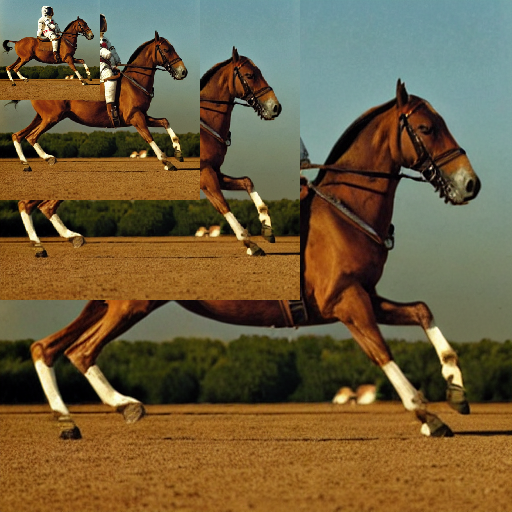
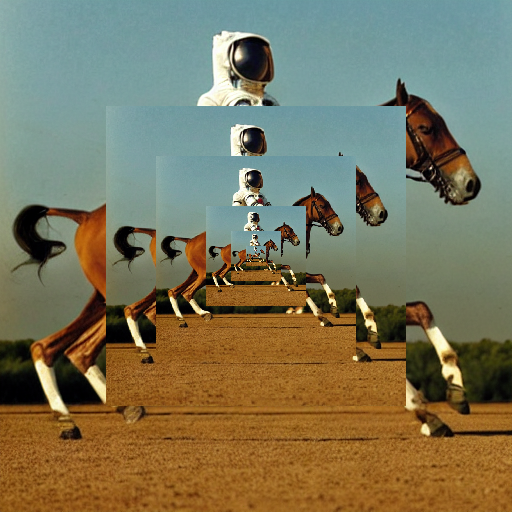
checkout overlayd.png

diff --git a/image_manipulator/src/main.rs b/image_manipulator/src/main.rs
@@ -11,6 +11,9 @@ use image::{ImageBuffer, Rgba, RgbaImage};
 use std::process;
 use std::io::Read;
 use std::io;
+use eval::{Expr, to_value};
+use std::collections::HashMap;
+
 
 // use woff2::decode::{convert_woff2_to_ttf, is_woff2};
 
@@ -30,6 +33,7 @@ async fn main(){
     // translation == position, a fixed point somewhere
     // rotation == rotation
 
+
     let a_s_arg: Vec<String> = env::args().collect();
     let mut s_first_arg = a_s_arg[1].to_owned();
     println!("s_first_arg {:?}", s_first_arg);
@@ -40,9 +44,69 @@ async fn main(){
 
     let a_o_manipulation = o_param["a_o_manipulation"].as_array().unwrap();
     let mut n_i_a_o_manipulation = 0; 
+    let mut a_s_path_file : Vec<String> = Vec::new();
+    let mut a_n_scale_x : Vec<f64> = Vec::new();
+    let mut a_n_scale_y : Vec<f64> = Vec::new();
+
     while(n_i_a_o_manipulation < a_o_manipulation.len()){
         let o_manipulation = &a_o_manipulation[n_i_a_o_manipulation];
-        let mut o_image_input = ImageReader::open(o_manipulation["s_path_image_input"].as_str().unwrap()).unwrap().decode().unwrap();
+        let mut s_path_image_input = o_manipulation["s_path_image_input"].as_str().unwrap();
+        let mut o_image_input = ImageReader::open(s_path_image_input).unwrap().decode().unwrap();
+        let mut n_index_a_s_path_file = a_s_path_file.iter().position(|s| s == s_path_image_input);
+        if(n_index_a_s_path_file == None){
+            // println!("n_index_a_s_path_file {:?}", n_index_a_s_path_file);
+            a_s_path_file.push(String::from(s_path_image_input));
+            a_n_scale_x.push(o_image_input.width() as f64);
+            a_n_scale_y.push(o_image_input.height() as f64);
+            n_index_a_s_path_file = Some((a_s_path_file.len()-1) as usize);
+        }else{
+            n_index_a_s_path_file = Some(n_index_a_s_path_file.unwrap() as usize);
+            a_s_path_file[n_index_a_s_path_file.unwrap()] = String::from(s_path_image_input);
+            a_n_scale_x[n_index_a_s_path_file.unwrap()] = (o_image_input.width() as f64);
+            a_n_scale_y[n_index_a_s_path_file.unwrap()] = (o_image_input.height() as f64);
+        }
+
+        println!("a_s_path_file {:?}", a_s_path_file);
+
+        let mut n_translation_x_evaluated = 0 as f64; 
+        if(o_manipulation["s_translation_x"]!= serde_json::Value::Null){
+            let mut s_expression = String::from(o_manipulation["s_translation_x"].as_str().unwrap());
+            for (n_index, s_path_file) in a_s_path_file.clone().iter().enumerate(){
+                let mut s = vec![String::from(s_path_file.clone()), String::from(".n_scale_x")].join("");
+                s_expression = s_expression.replace(&s[..], &(a_n_scale_x[n_index as usize].to_string())[..]);
+                // println!("replacing {:?} with {:?}", s, &(a_n_scale_x[n_index as usize].to_string()));
+                s = vec![String::from(s_path_file.clone()), String::from(".n_scale_y")].join("");
+                s_expression = s_expression.replace(&s[..], &(a_n_scale_y[n_index as usize].to_string())[..]);
+
+            }
+            
+            let mut o_expr = Expr::new(String::from(s_expression.clone()));
+            // println!("s_expression {:?}", s_expression.clone());
+            n_translation_x_evaluated = o_expr.exec().unwrap().as_f64().unwrap();
+            // println!("n_translation_x_evaluated {:?}", n_translation_x_evaluated);
+            // std::process::exit(1);
+        }
+        let mut n_translation_y_evaluated = 0 as f64;
+        if(o_manipulation["s_translation_y"]!= serde_json::Value::Null){
+            let mut s_expression = String::from(o_manipulation["s_translation_y"].as_str().unwrap());
+            for (n_index, s_path_file) in a_s_path_file.clone().iter().enumerate(){
+                let mut s = vec![String::from(s_path_file.clone()), String::from(".n_scale_x")].join("");
+                s_expression = s_expression.replace(&s[..], &(a_n_scale_y[n_index as usize].to_string())[..]);
+                // println!("replacing {:?} with {:?}", s, &(a_n_scale_y[n_index as usize].to_string()));
+                s = vec![String::from(s_path_file.clone()), String::from(".n_scale_y")].join("");
+                s_expression = s_expression.replace(&s[..], &(a_n_scale_y[n_index as usize].to_string())[..]);
+            }
+            
+            let mut o_expr = Expr::new(String::from(s_expression.clone()));
+            // println!("s_expression {:?}", s_expression.clone());
+            n_translation_y_evaluated = o_expr.exec().unwrap().as_f64().unwrap();
+            // println!("n_translation_y_evaluated {:?}", n_translation_y_evaluated);
+            // std::process::exit(1);
+        }
+
+
+
+
         let mut o_image_output = o_image_input.clone();
         if(o_manipulation["s_operation_name"].as_str().unwrap() == "resize"){
 
@@ -67,8 +131,8 @@ async fn main(){
             image::imageops::overlay(
                 &mut o_image_output,
                 &o_image_foreground,
-                o_manipulation["n_translation_x"].as_i64().unwrap() as i64, 
-                o_manipulation["n_translation_y"].as_i64().unwrap() as i64
+                n_translation_x_evaluated as i64, 
+                n_translation_y_evaluated as i64
             );
         }
 
@@ -77,8 +141,8 @@ async fn main(){
             o_image_output = image::DynamicImage::ImageRgba8(
                 image::imageops::crop(
                     &mut o_image_input,
-                    o_manipulation["n_translation_x"].as_i64().unwrap().try_into().unwrap(),
-                    o_manipulation["n_translation_y"].as_i64().unwrap().try_into().unwrap(), 
+                    n_translation_x_evaluated as u32,
+                    n_translation_y_evaluated as u32, 
                     o_manipulation["n_scale_x"].as_i64().unwrap().try_into().unwrap(),
                     o_manipulation["n_scale_y"].as_i64().unwrap().try_into().unwrap(),
                 ).to_image()
@@ -105,14 +169,9 @@ async fn main(){
             let mut n_cos = (std::f64::consts::TAU * n_rotation_normalized).cos();
             let mut n_sin = (std::f64::consts::TAU * n_rotation_normalized).sin();
 
-            let mut n_translation_x = 0 as f64; 
-            if(o_manipulation["n_translation_x"]!= serde_json::Value::Null){
-                n_translation_x = (o_manipulation["n_translation_x"].as_f64().unwrap())
-            }
-            let mut n_translation_y = 0 as f64; 
-            if(o_manipulation["n_translation_y"]!= serde_json::Value::Null){
-                n_translation_y = (o_manipulation["n_translation_y"].as_f64().unwrap())
-            }
+
+            let mut n_translation_x = n_translation_x_evaluated;
+            let mut n_translation_y = n_translation_y_evaluated;
 
             for n_y in 0..n_o_image_input_scale_x{
                 for n_x in 0..n_o_image_input_scale_y {
@@ -214,14 +273,10 @@ async fn main(){
                 n_o_image_input_scale_x,
                 n_o_image_input_scale_y
             );
-            let mut n_translation_x = 0 as f64; 
-            if(o_manipulation["n_translation_x"]!= serde_json::Value::Null){
-                n_translation_x = (o_manipulation["n_translation_x"].as_f64().unwrap())
-            }
-            let mut n_translation_y = 0 as f64; 
-            if(o_manipulation["n_translation_y"]!= serde_json::Value::Null){
-                n_translation_y = (o_manipulation["n_translation_y"].as_f64().unwrap())
-            }
+
+
+            let mut n_translation_x = n_translation_x_evaluated;
+            let mut n_translation_y = n_translation_y_evaluated;
 
             let mut a_n_f64_x : Vec<f64> = vec![
                 o_manipulation["a_a_n"].as_array().unwrap()[0].as_array().unwrap()[0].as_f64().unwrap(),
@@ -267,7 +322,24 @@ async fn main(){
         }   
         
         o_image_output.save(o_manipulation["s_path_image_output"].as_str().unwrap()).unwrap();
-        
+
+        let mut s_path_image_output = o_manipulation["s_path_image_output"].as_str().unwrap();
+        let mut n_index_a_s_path_file = a_s_path_file.iter().position(|s| s == s_path_image_output);
+        if(n_index_a_s_path_file == None){
+            // println!("n_index_a_s_path_file {:?}", n_index_a_s_path_file);
+            a_s_path_file.push(String::from(s_path_image_output));
+            a_n_scale_x.push(o_image_output.width() as f64);
+            a_n_scale_y.push(o_image_output.height() as f64);
+            n_index_a_s_path_file = Some((a_s_path_file.len()-1) as usize);
+        }else{
+            n_index_a_s_path_file = Some(n_index_a_s_path_file.unwrap() as usize);
+            a_s_path_file[n_index_a_s_path_file.unwrap()] = String::from(s_path_image_output);
+            a_n_scale_x[n_index_a_s_path_file.unwrap()] = (o_image_output.width() as f64);
+            a_n_scale_y[n_index_a_s_path_file.unwrap()] = (o_image_output.height() as f64);
+        }
+
+        // println!("a_n_scale_x {:?}", a_n_scale_x);
+        // println!("o_image_output.width() {:?}", o_image_output.width());
         n_i_a_o_manipulation+=1;
     }
 

diff --git a/image_manipulator/src/main_exprtest.rs b/image_manipulator/src/main_exprtest.rs
@@ -1,0 +1,38 @@
+use std::io::Cursor;
+use text_to_png::TextRenderer;
+use image::io::Reader as ImageReader;
+use image::GenericImageView;
+use std::sync::Once;
+use std::fs::File;
+use std::io::Write;
+use serde_json::{Result, Value};
+use std::env;
+use image::{ImageBuffer, Rgba, RgbaImage};
+use std::process;
+use std::io::Read;
+use std::io;
+use eval::{Expr, to_value};
+use std::collections::HashMap;
+
+
+// use woff2::decode::{convert_woff2_to_ttf, is_woff2};
+
+fn f_print_type_of<T>(_: &T) {
+    println!("{}", std::any::type_name::<T>())
+}
+
+
+// // example input json 
+
+
+
+#[tokio::main]
+async fn main(){
+
+    let mut o_expr = Expr::new("512.0/2");
+    // let mut o_expr = Expr::new(String::from("512.0/2"));
+    // let mut o_expr = Expr::new(String::from("512.0/2.0"));
+    let mut n_translation_x_evaluated = o_expr.exec().unwrap().as_f64().unwrap();
+    println!("n_translation_x_evaluated {:?}", n_translation_x_evaluated);
+
+}
